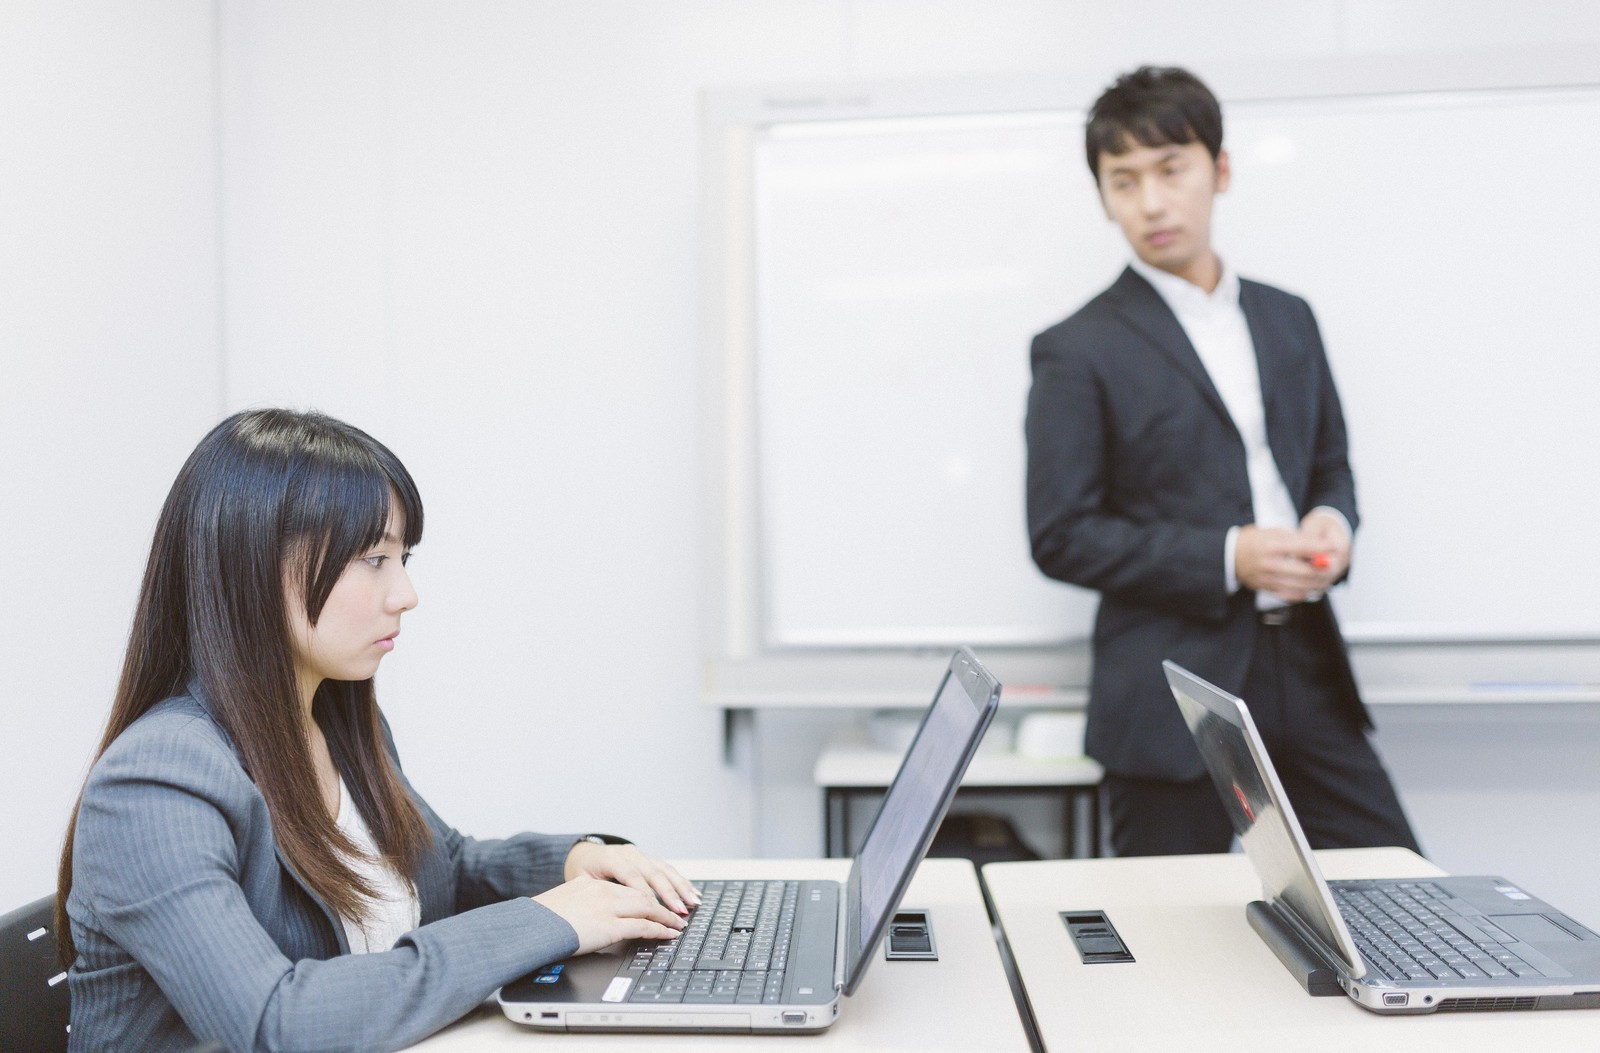
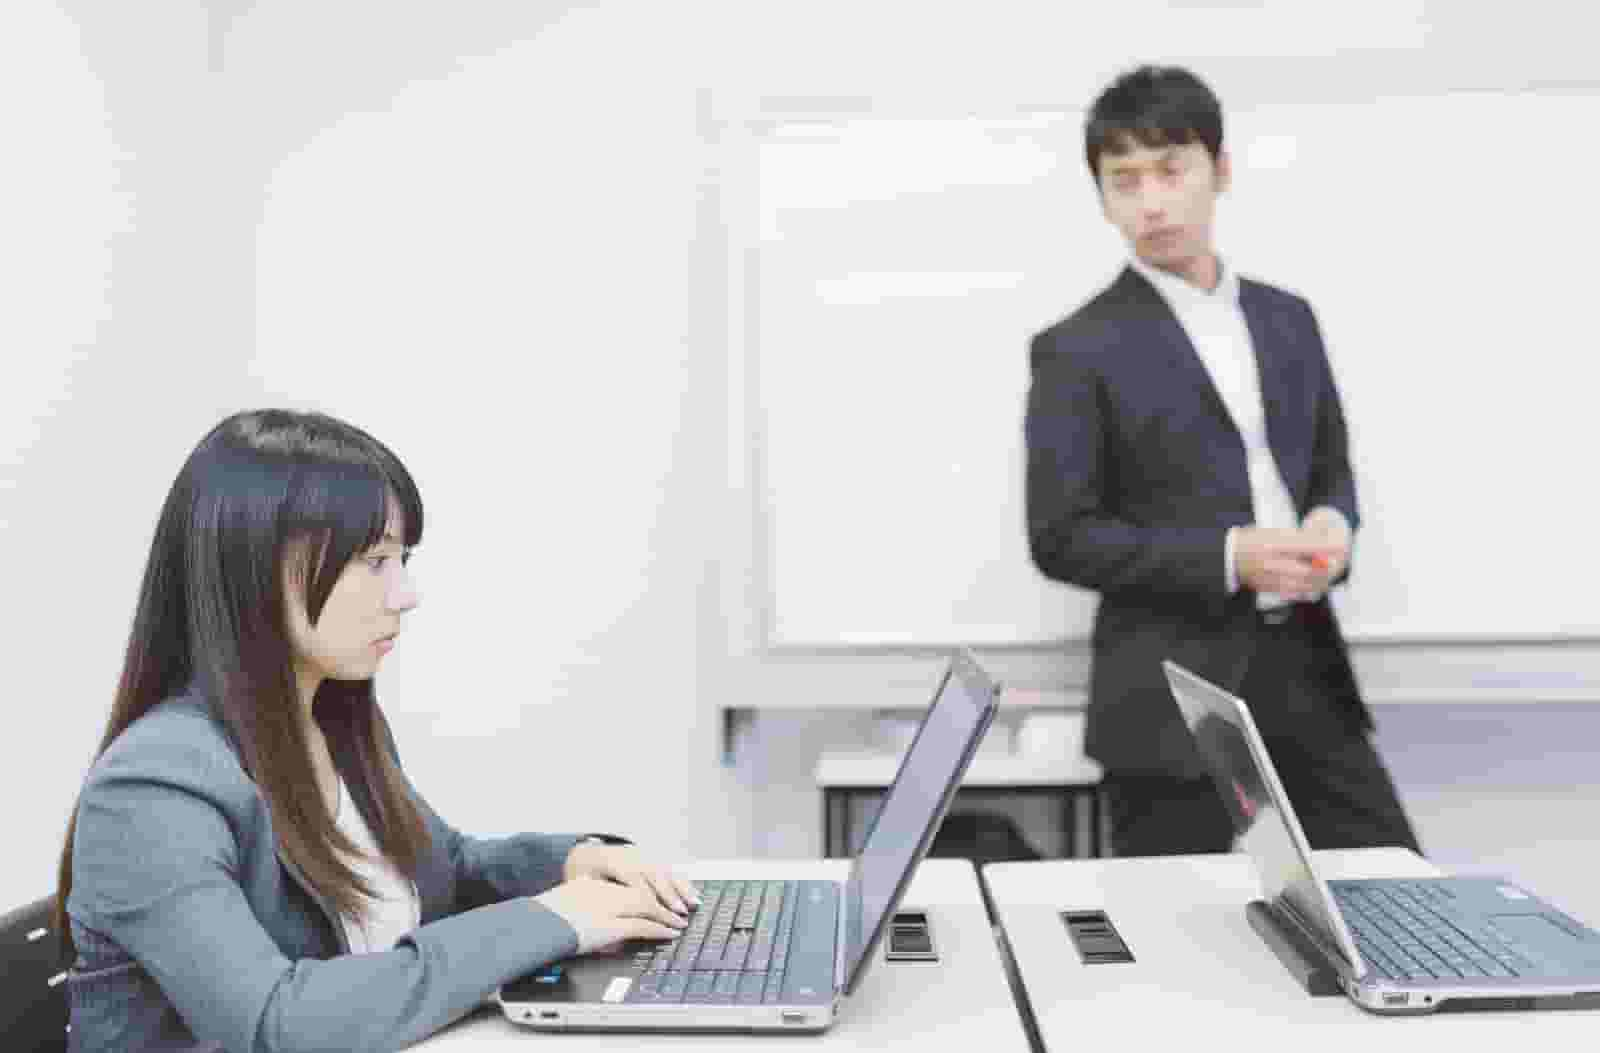
[fix]画像の圧縮
画像の容量が大きかったので圧縮しました。

diff --git a/api/index.js b/api/index.js
@@ -27,7 +27,7 @@ if (tl) {
     useUnifiedTopology: false
   });
 } else {
-  mongoose.connect("mongodb://mongo:27017/ctrlPublicSite", {
+  mongoose.connect("mongodb://localhost:27017/ctrlPublicSite", {
     useNewUrlParser: true,
     useUnifiedTopology: false
   });
